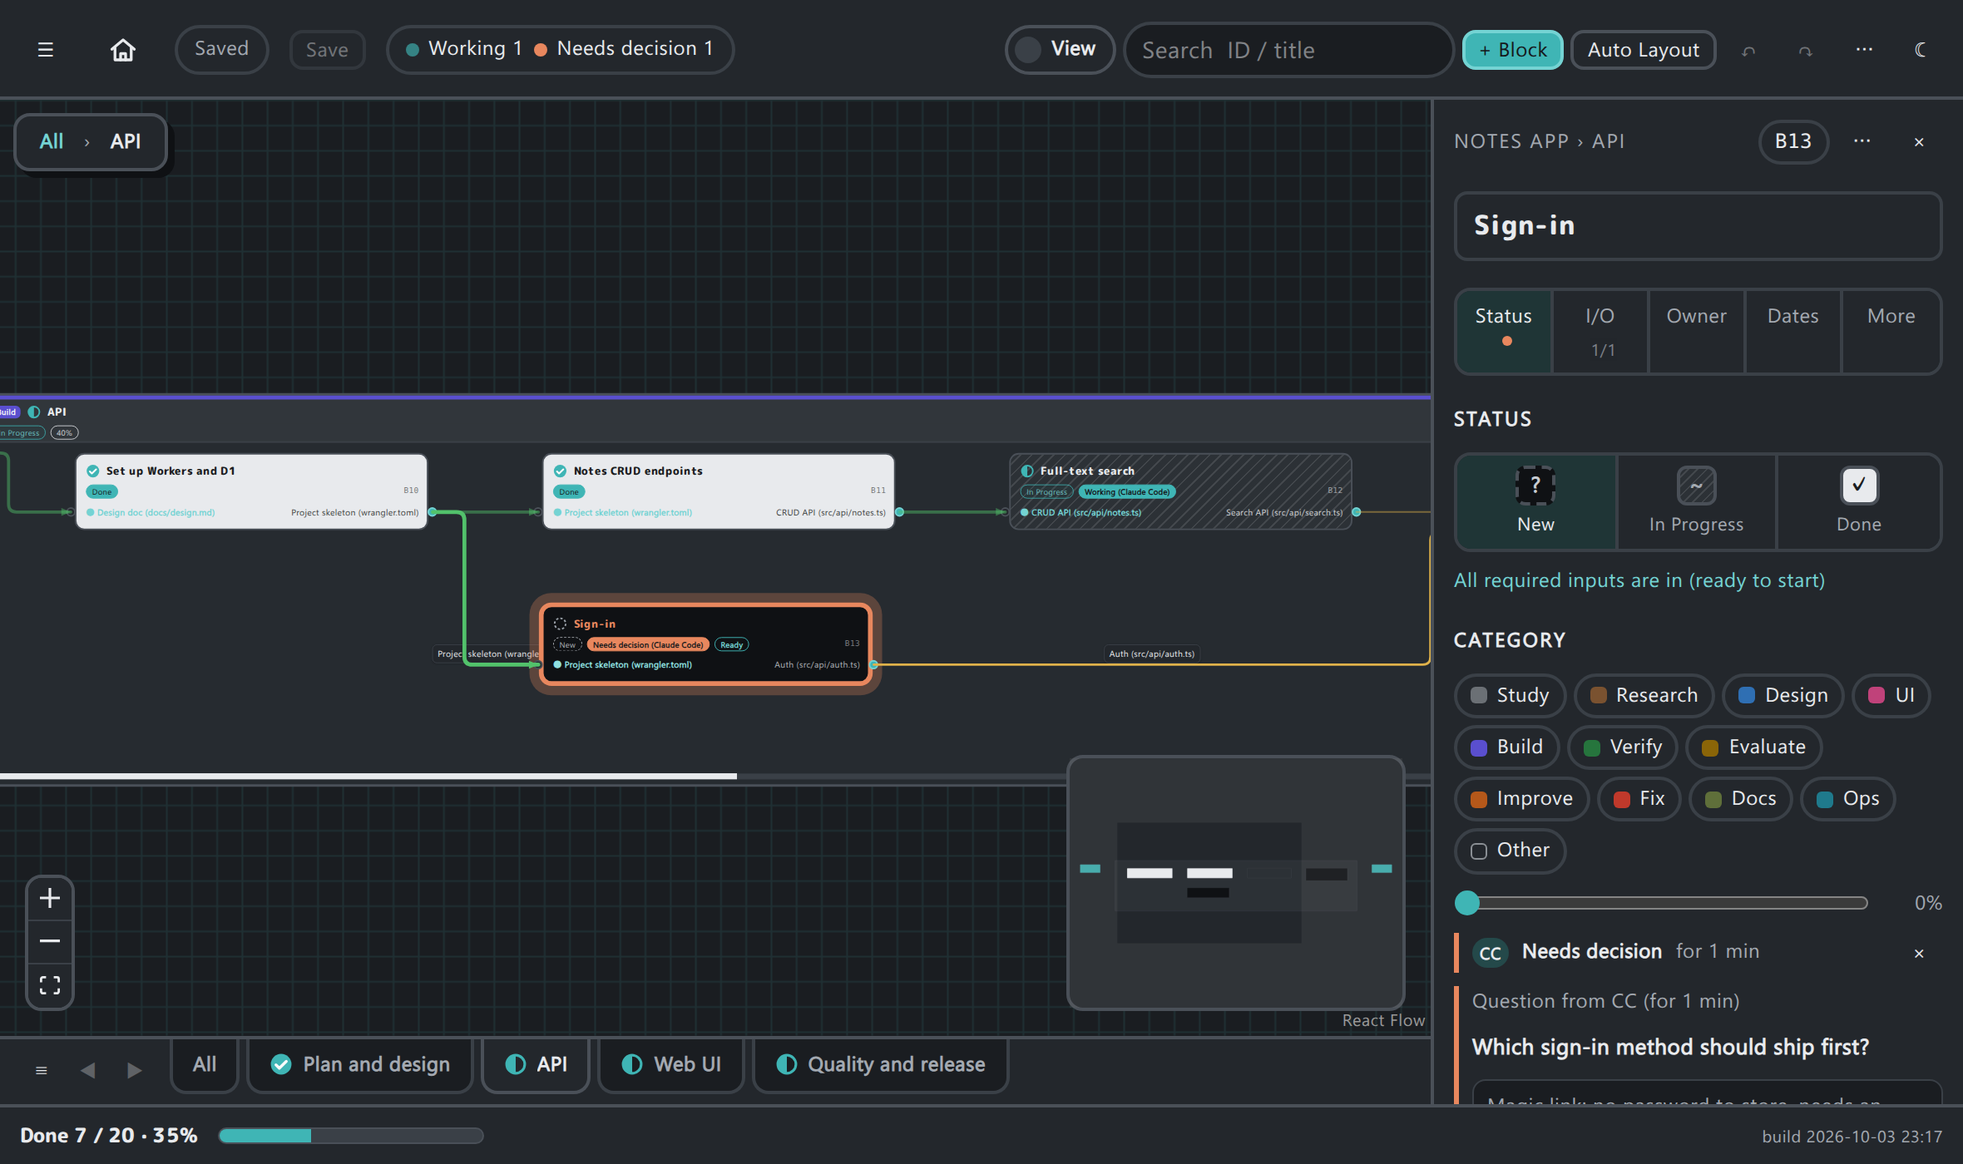
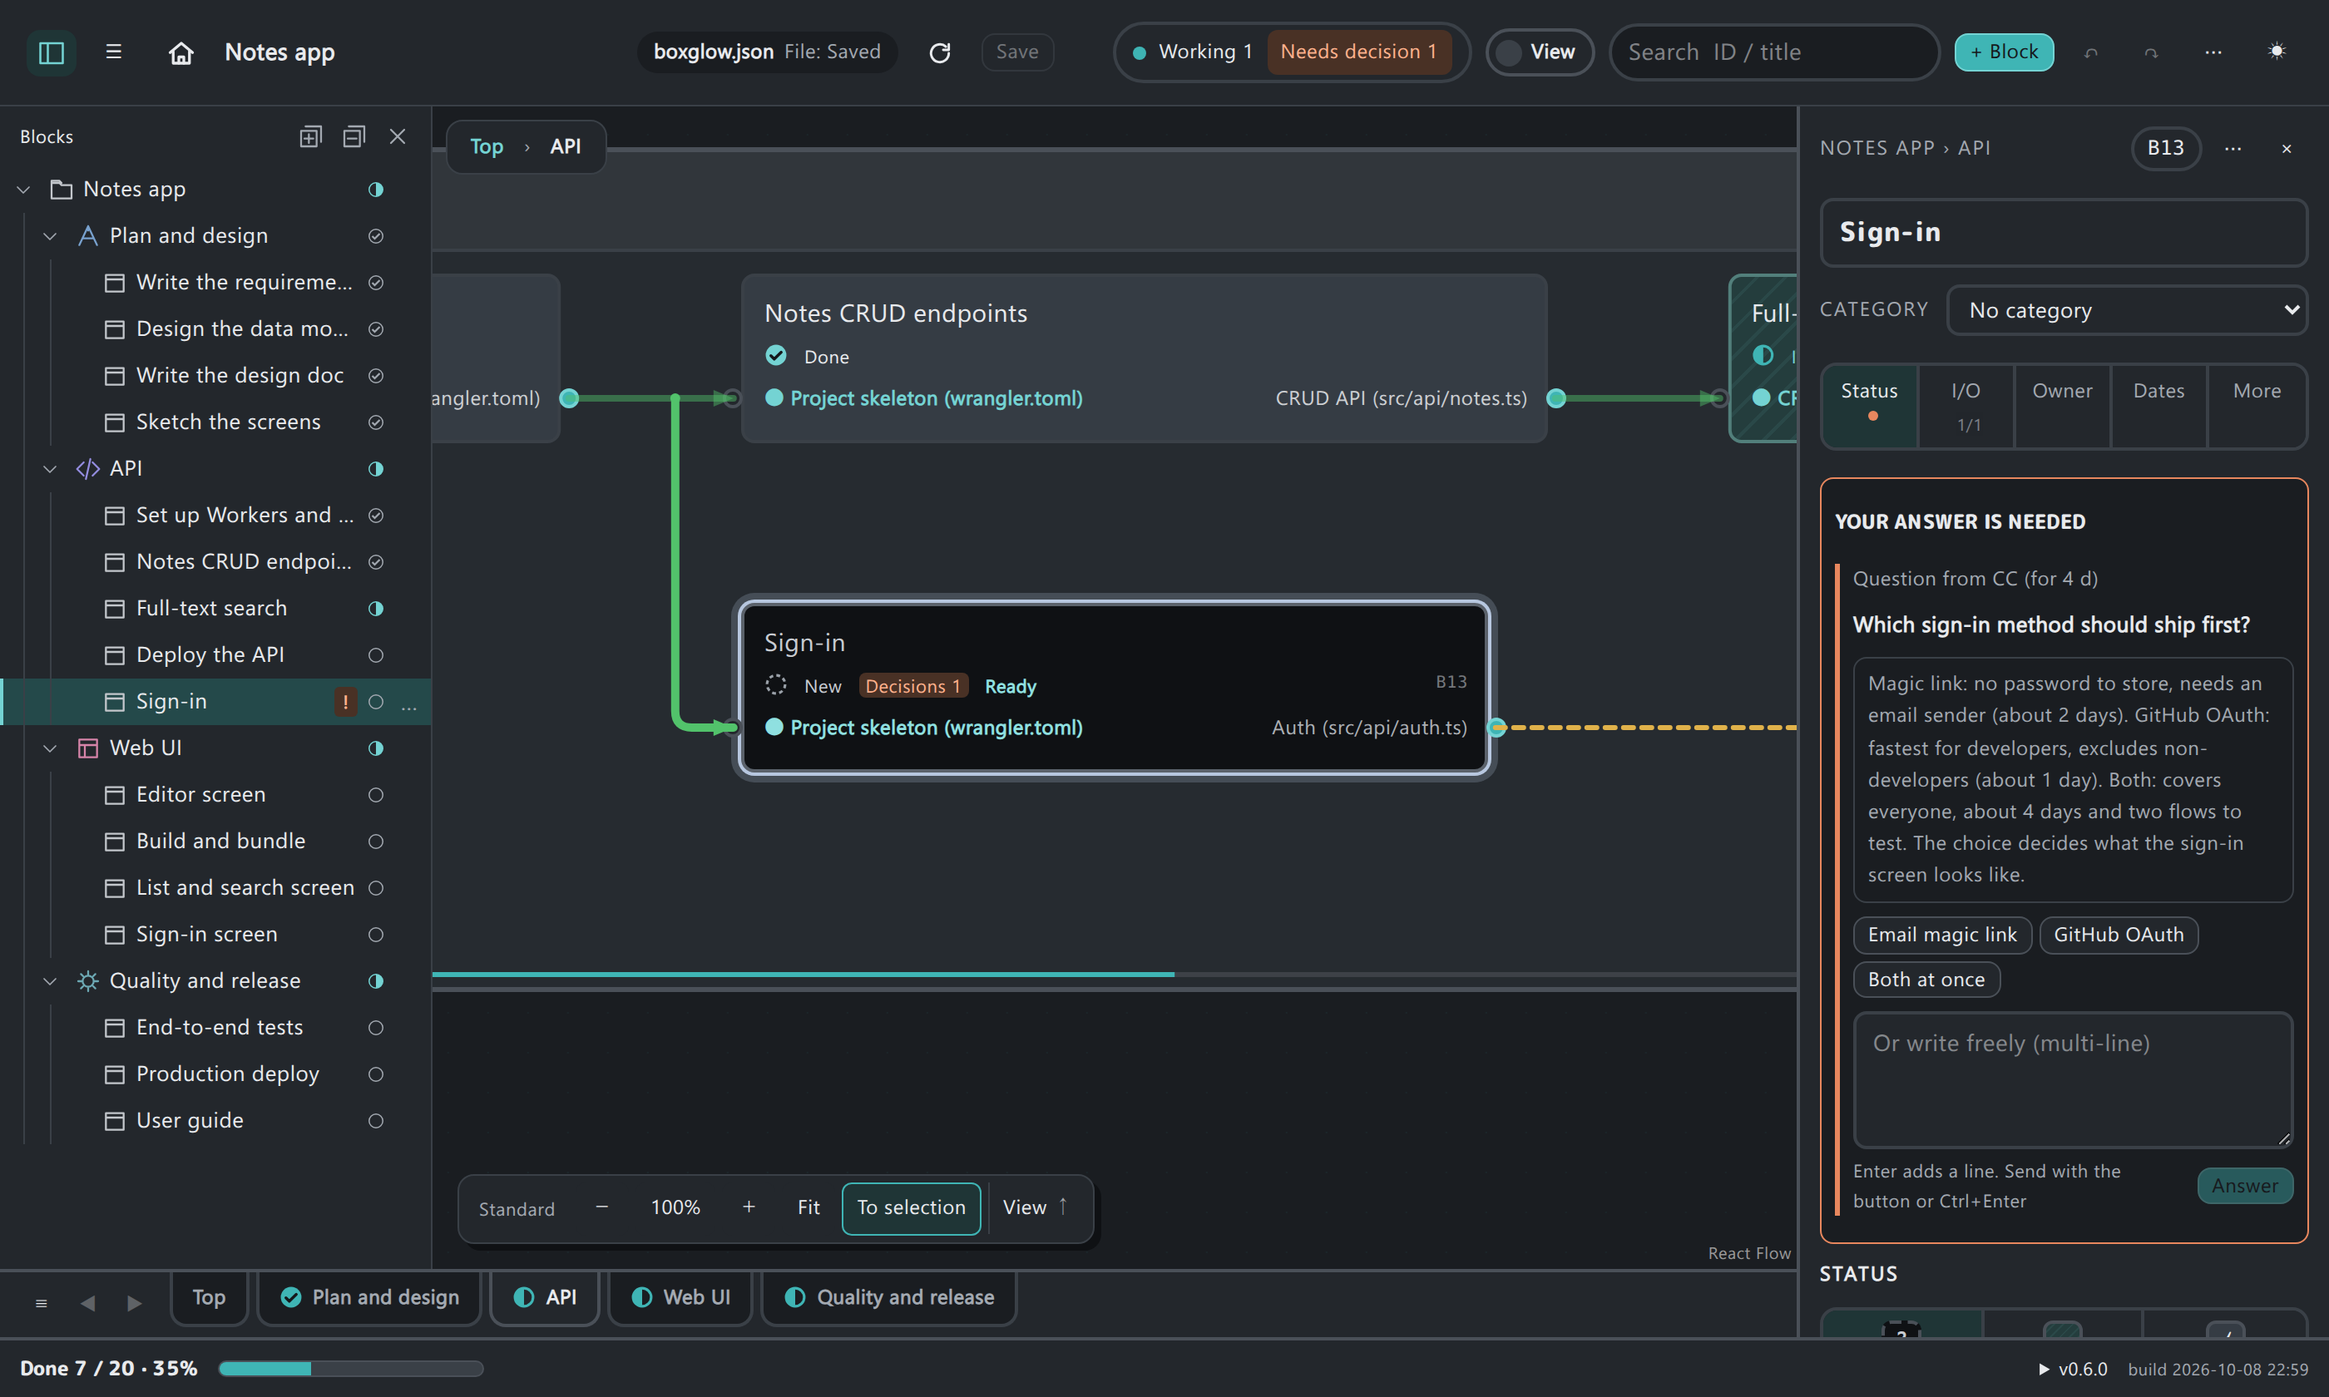
0.6.0 / 拡張 0.5.0: 変更履歴を利用者向けにまとめ直し、拡張の説明の画像を今の画面 (英語・ツリー・Top・判断待ち) と階層の図に更新

Changed region(s): [[0.0, 0.0, 1.0, 1.0], [0.928, 0.8293, 0.9898, 0.8907], [0.9589, 0.7679, 0.9898, 0.7986]]

diff --git a/CHANGELOG.md b/CHANGELOG.md
@@ -1,45 +1,36 @@
 # Changelog
 
-## Unreleased
+## 0.6.0 (2026-10-08)
 
-- `boxglow remote delete` (and deleting from the sync panel) no longer fails with HTTP 412 against the hosted server: Cloudflare turns the ETag into a weak one (`W/"…"`) when it compresses a response, and the revision taken from it kept the `W/` prefix. The same rule as sync now strips it.
-- Stage E: confirmation-based server plan deletion, 30-day trash and restoration to a new server ID in CLI / serve / VS Code. Local files remain and deleted IDs stay blocked. Requires the Stage E server for recovery.
-- D5: treat unsafe HTTP URLs as configuration errors, stop watch retries, and document migrating existing HTTP bindings.
+Goes with the VS Code extension 0.5.0. Update the CLI, `serve` and the extension together. The hosted sync server was updated on 2026-10-08 (plan list, deletion and restore); older clients keep working with it.
 
-- **Authentication compatibility change:** `BOXGLOW_TOKEN` alone is no longer used for the product sync server, including explicit URLs and existing bindings. Also set `BOXGLOW_TOKEN_SERVER` to the matching URL. See `docs/SYNC_START.md` for Windows CLI instructions. Custom servers retain unscoped-token compatibility, but non-localhost HTTP sync is now rejected; use HTTPS.
-- D4 review: share HTTPS/local HTTP validation across sign-in, sync and watch, reject sync redirects, protect HTTP spellings and trailing-dot variants of the product host, and align Windows sign-in guidance. Legacy plans without an ID must retain their original creation time to auto-merge; generated IDs no longer cause a false partial-Undo warning.
+### Highlights
 
-- D3 review: unscoped `BOXGLOW_TOKEN` is never sent to the product sync server, including explicit URLs and existing bindings. Set `BOXGLOW_TOKEN_SERVER` to the matching sync URL to use an environment token there (for example in CI). URL comparison normalizes host case, default ports and trailing slashes. A configured token server restricts custom servers too; custom servers without it retain their existing behavior. Logout messages follow the same rule. Legacy plans without an ID can still merge their first external ID assignment; the start panel shares one details section and limits comparison advice to the current-file destination.
+- **Block tree**: a sidebar with its own button (separate from filters, members and parts). Expand or collapse branches, move with the keyboard, and add, rename, move, change the status of or delete boxes from the tree. Filters apply to the tree too.
+- **Clearer sync display**: the sync chip uses five plain states (Synced, Transferring, Needs review, Stopped, Not syncing). The panel shows the current situation and the next action first; account, settings and details are folded away. The file's save state and the sync state are labelled separately.
+- **Conflicts by block**: when the same field changed on both sides, the comparison is grouped by box (with the box title, the field and both values) and you choose per box, or per field. Changes to different boxes never ask; they are merged automatically. Wires, deletions and moves that depend on each other are kept in one group so a choice cannot break the plan.
+- **No more "merge both" prompt for unrelated edits**: when a file changes on disk while you have unsaved edits in the UI and nothing actually conflicts, both changes are merged and saved automatically. Undo after such a merge keeps the other side's changes.
+- **Claims for parallel agents (opt-in per plan)**: an agent that starts a box can hold it for a limited time (30 minutes by default) so other agents and sub-agents do not edit it at the same time. Claims are cooperative within one shared file, not a lock across synced machines. People can release a claim with a reason. See `docs/CLAIMS.md`.
+- **Starting sync is one flow**: "Start syncing" in `serve` and the VS Code extension asks whether to put this plan on the server or open one of your plans there, signs you in if needed, and continues. A second machine picks the plan from a list instead of typing an ID. GitHub sign-in copies the code and opens the page with one button. Nothing is sent until you start.
+- **Delete and restore plans on the server**: delete a plan from the sync panel or with `boxglow remote delete`; it can be restored for 30 days (`boxglow remote trash` / `restore`). A restored plan gets a new ID, and a machine that still has the old plan can reconnect to it and keep its unsent edits.
+- **Only people resolve sync conflicts**: AI agents (MCP, or the CLI run by an agent) can sync and read the comparison, but resolving a conflict or linking a plan to a server for the first time needs a person (the UI, or the CLI with `--actor human`). This prevents mistakes; it is not an access control.
+- Category labels stay visible on every box; the overview tab is now called **Top**.
+- `boxglow sync --relink <token> [--prefer local|remote]`: when the server's history was restored from a backup, compare the plan on the server with the local one and keep one of them, instead of being stuck. The previous local state is saved first.
 
-- Stage D: a default sync server with explicit opt-out, a single start flow, account-scoped paged plan lists and destination selection in serve / VS Code. Keep existing bindings and remembered enablement; copy GitHub codes and open authorization in one click. See `docs/SYNC_START.md`.
+### Compatibility changes
 
-- C3: Preserve only explicitly marked claim logs through Undo/Redo; clarify that a same-named instance may be another worker; document the whole-plan claim restriction for agents and announce its effect after acquisition.
+- **`BOXGLOW_TOKEN` is not sent to the hosted sync server** unless `BOXGLOW_TOKEN_SERVER` names that server. Sign in with `boxglow login` instead, or set `BOXGLOW_TOKEN_SERVER` (for example in CI, or on Windows where sign-in cannot be stored yet). Your own servers keep using `BOXGLOW_TOKEN` as before.
+- **Sync over plain HTTP is refused** except for localhost. Use an `https://` URL; `docs/SYNC_START.md` describes how to move an existing HTTP binding.
+- Resolving conflicts and first-time linking from the CLI now need `--actor human`. The commands printed when sync stops include it.
+- Claims add the optional `claims` / `claimPolicy` fields to `boxglow.json`. Plans that do not turn claims on are unchanged.
+- When `CLAUDECODE` or Codex execution markers are present, the log records the agent name even if `BOXGLOW_ACTOR` holds a person's name.
 
-- C2 review: restore Git merge on claim-enabled plans; attribute promoted inputs to their original boxes and support explicit root claims for plan settings. Explain active foreign claims and MCP restarts, preserve Project JSON output and human claim logs through Undo/Redo, suppress claims-only merge notices, make repeated release a no-op, and style the release action as a button.
-- Recorder identity intentionally follows AI execution markers before an inherited human name in `BOXGLOW_ACTOR`: for example, `CLAUDECODE=1 BOXGLOW_ACTOR=hash` records `claude-code`. Explicit human CLI operations retain `--actor human` / `--actor human:name`; agents must use their own actor name.
+### Fixes
 
-- Stage C: opt-in per-plan claims for CLI/MCP with instance IDs, expiry and generation fencing; compact GUI indicators and reasoned human release. See `docs/CLAIMS.md` for the same-file coordination boundary.
-
-- B6: Share AI identity detection between recorder and sync output, document explicit agent names across WSL, and reject undo steps that would discard external assignment or input-group references.
-
-- 段階B再レビュー B5: CLI試験から起動元のAI識別環境を分離。人の記録者名・設定フォルダだけによる誤判定を修正し、`human:名前` と人向けヘルプを追加。Undoで外部の入出力や配線を失う段は通知して停止し、項目の一部を戻せない場合も通知。常時同期の再実行案内から `--watch` を除去。担当解除ログは統合時刻・発生回・確定後のB番号を記録。
-
-- 段階B再レビュー B4: 単体試験の前にCLIを再ビルド。外部更新の履歴を項目単位へ圧縮し、保存通知の判別をハッシュ化。担当解除をログ・比較欄に表示し、Undo/Redoの境界を通知。同期のAI向け出力から人専用コマンドを除き、人向けには元の引数で再実行方法を案内。
-- 段階B再レビュー: 担当参照の正規化、保存中の文書読み直しと自己通知の競合を修正。Undo/Redoの外部差分反映を遅延化し、比較グループと値の表示を整理。
-- 同期の競合解決・初回結び付けなどの判断はGUIまたは明示的なCLI `--actor human` に限定。MCPは固定対象の通常同期と比較取得のみ。
-
-- Conflict resolution now groups changes by block in comparisons across the CLI, MCP and UI, with a separate project settings group and joint review for dependent wires, deletions and moves. The shared versioned request supports block and field choices; partial or stale choices never apply. See [conflict resolution](docs/SYNC_CONFLICTS.md).
-- File-save collisions with no conflicting fields merge automatically and save against the latest CAS revision. Unsaved VS Code text-editor edits and edits held for manual review remain protected; success is reported only after saving.
-
-- The block tree has its own sidebar button, separate from filters, members and parts. Compact rows show hierarchy guides and category icons; branches can be expanded or collapsed individually or all at once. The tree supports keyboard navigation and block management (add, rename, move, change status and delete with Undo), follows canvas selection, and remembers whether the sidebar is open.
-- The sync chip groups the existing states into five labels: Synced, Transferring, Needs review, Stopped and Not syncing. Its panel puts the current explanation, main actions and comparisons first, with account information, details and settings folded away. File save status is labelled separately from server sync status.
-- Category labels stay visible in block headers, including the overview. The category selector is directly below the block title in every inspector tab; the tree shows the category as an icon with its name in the tooltip.
-- Renamed the overview tab from All to Top, including the tab list, breadcrumbs and wire navigation labels and tooltips.
-
-- `boxglow serve --sync`: when the page loses its connection to `serve` (serve stopped, or a save could not reach it), the sync chip shows "Disconnected" instead of keeping the last state such as "Synced", and its panel explains that the state is unknown. When `serve` comes back, the chip picks up the current state again (and disappears if `serve` was restarted without `--sync`).
-- VS Code extension, experimental sync from the UI: when sync receives new content while the text editor still has unsaved edits, the conflict bar no longer offers to merge or to open the latest file (merging there dropped the editor's unsaved edits, and the extension cannot safely discard edits in one specific editor). It offers "Save a copy of my edits" instead, then asks you to close every tab of the file (Don't Save) and reopen it, and "Load saved edits" in the ⋯ menu brings both the view and the editor edits back. The copy uses the last saved content as its base. Saving a copy and loading it now also work when no sync server is set (before, the buttons waited and failed). For other save conflicts, "Export mine and open the latest file" switches only after the copy is written and only if the view did not change in the meantime.
-- Experimental, not announced yet: sync from the UI, first part. `boxglow serve --sync [--server <URL>]` runs a sync host next to the local server: the top bar shows a one-word sync chip (Synced / Unsent / Syncing / Action needed / Problem / Offline / Paused / Other process / Off), and its panel signs in with GitHub (device code shown in the panel), turns syncing on or off for the open plan, puts the plan on the server, syncs now, and offers the same choices as the CLI when sync stops (conflicts, first link, relink, recovery, protected deletions, account confirmation). Only the plan that is open and switched on is watched; a `boxglow sync --watch` that already owns the server is shown as "Other process". Tokens never appear in the UI state. The VS Code extension and the server-side Google sign-in are not wired yet.
-- Experimental sync, not announced yet: `boxglow sync --relink <token> [--prefer local|remote]`. When the server's history changed (a restore from backup), sync used to stop with no way to continue in the same folder. It now shows how the plan on the server and the local plan differ and lets you keep one of them; the previous state (local plan, sync records, any unfinished operation) is saved under the binding's `relinks/` folder first. Nothing is merged automatically from the old base, and an unfinished push from before the restore is never sent again. While a relink is in progress the local sync state uses format version 2, so 0.5.2 and earlier stop on it instead of treating it as a first link.
+- `serve --sync`: when the page loses its connection to `serve`, the chip shows that it is disconnected instead of the last state.
+- VS Code: when sync receives new content while the text editor has unsaved edits, you save a copy of your edits, reopen the file and load them back, instead of being offered a merge that would drop the editor's edits. Saving a copy and loading it also work without a sync server.
+- Undo no longer removes changes that arrived from another editor or agent, and stops with a notice when going further back would contradict them.
+- Deleting a plan no longer fails with HTTP 412 against the hosted server (Cloudflare marks the ETag as weak).
 
 ## 0.5.2 (2026-10-05)
 

diff --git a/vscode/README.md b/vscode/README.md
@@ -6,17 +6,28 @@ Boxglow keeps a project plan in one file, `boxglow.json`: tasks are boxes with i
 
 ![The whole plan: four major boxes, wires show what feeds what](https://raw.githubusercontent.com/sukima-log/Boxglow/main/vscode/images/overview.png)
 
+## How a plan is laid out
+
+The **Top** view shows only the major boxes. Each major box opens as a tab with everything inside it, nested. Wires show which output feeds which input, so you can see what is blocked by what.
+
+![Top shows the major boxes; a tab shows everything inside one of them](https://raw.githubusercontent.com/sukima-log/Boxglow/main/vscode/images/levels.png)
+
 ## What you see
 
 - **Where the agent is working**: the box it is on carries a "Working" tag; the top bar counts what is in progress and what needs a decision.
 - **What is done and what is not**: New boxes are dark, boxes in progress are hatched, done boxes are light. Green wires carry a finished deliverable, amber wires are still waiting.
-- **One tab per major box**: the overview shows the major boxes; each tab shows one of them with everything nested inside.
+- **The block tree**: the sidebar button opens the whole hierarchy. Jump to a box, or add, rename, move and delete boxes right from the tree.
 
-![Inside one major box: done, in progress, and a box waiting for a decision](https://raw.githubusercontent.com/sukima-log/Boxglow/main/vscode/images/tab.png)
+![Inside the API tab, with the block tree: one box in progress, one waiting for a decision](https://raw.githubusercontent.com/sukima-log/Boxglow/main/vscode/images/tab.png)
 
-- **Decisions in one place**: when an agent asks a question, the box turns orange. Pick an option or write an answer in the side panel; the agent reads it from the file and carries on. Your answer stays listed until the agent has picked it up.
+- **Decisions in one place**: when an agent asks a question, the box is marked. Pick an option or write an answer in the side panel; the agent reads it from the file and carries on. Your answer stays listed until the agent has picked it up.
 
 ![Answering an agent's question from the side panel](https://raw.githubusercontent.com/sukima-log/Boxglow/main/vscode/images/decision.png)
+
+## Working with several agents
+
+- **Edits do not collide**: when the file changes while you have unsaved edits, changes to different boxes are merged automatically. Only a box that both sides changed asks you to choose, box by box.
+- **Claims (optional, per plan)**: an agent that starts a box holds it for a while, so other agents and sub-agents leave it alone.
 
 ## How to use
 
@@ -28,7 +39,7 @@ The diagram follows the file: when the CLI or an agent writes it, the view updat
 
 ## Good to know
 
-- Everything stays in your repository: the extension reads and writes `boxglow.json` only. Nothing is uploaded.
+- Everything stays in your repository: the extension reads and writes `boxglow.json`. Nothing is uploaded unless you choose **Start syncing** (experimental sync between machines, off by default).
 - Works without an agent too: you can build and track a plan by hand.
 - The plan format, the CLI, the MCP server and the web app are open source (MIT): https://github.com/sukima-log/Boxglow
 - Web version: https://boxglow.pages.dev/
